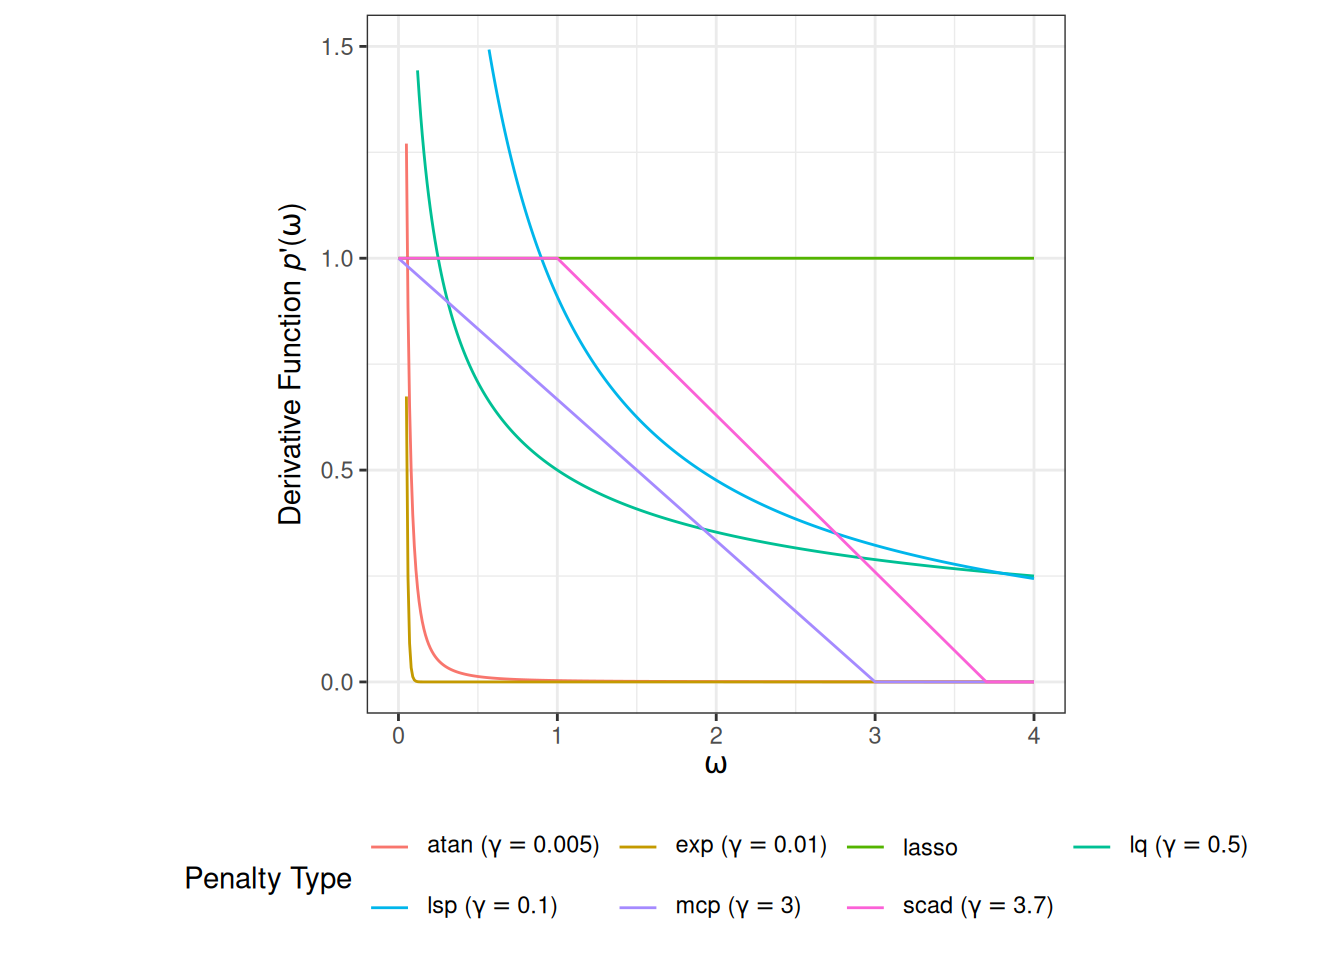
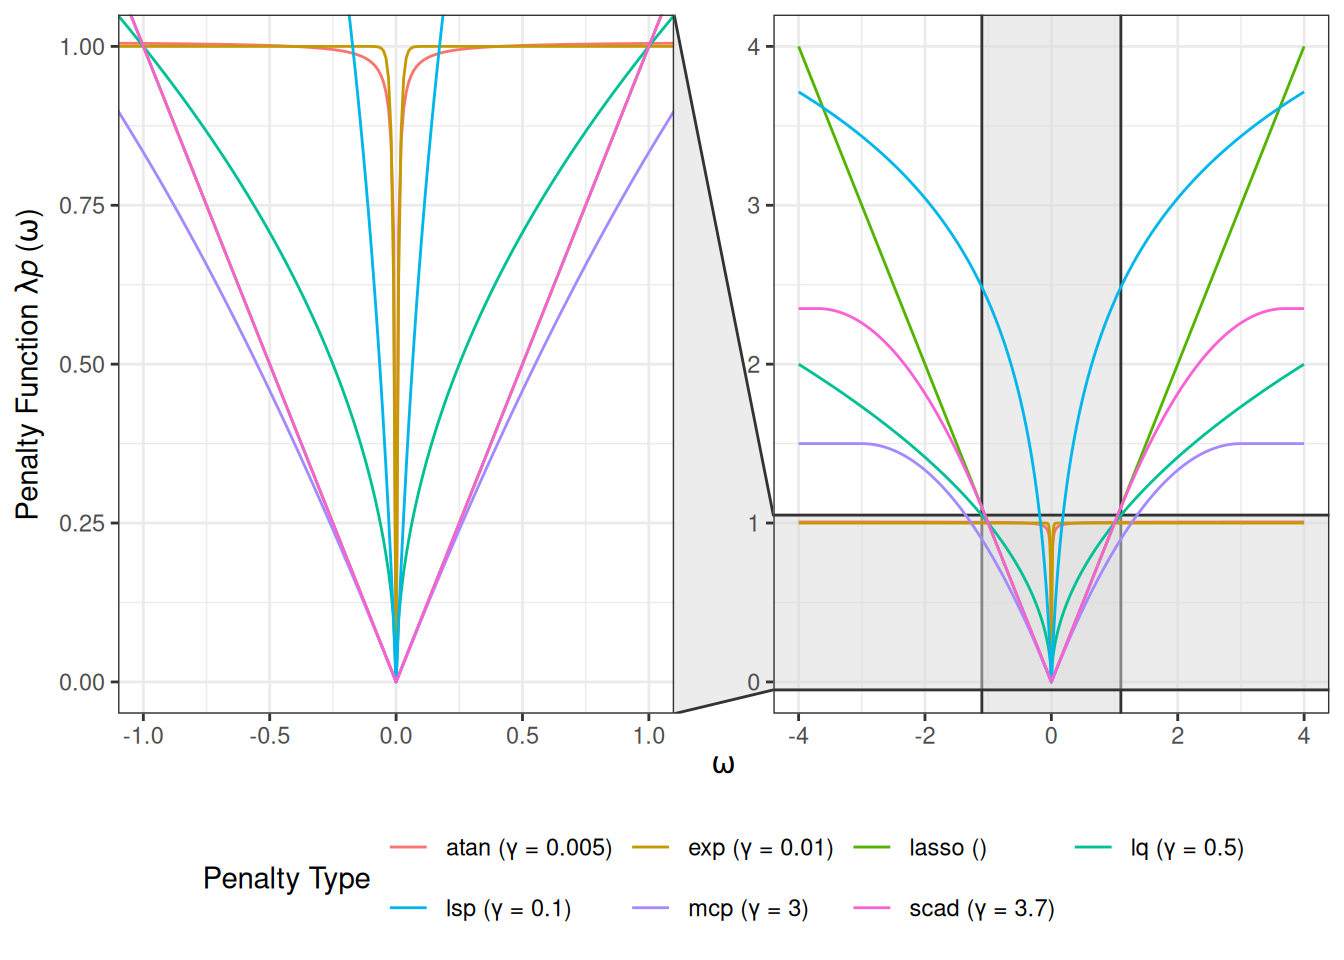
Deploying to gh-pages from @ Carol-seven/grasps@d884253fb03db5fde3b4145dbb8eb99e369c6571 🚀

diff --git a/articles/pen_est.html b/articles/pen_est.html
@@ -222,8 +222,6 @@ P^\text{grp}_\gamma(\Omega)
 <section class="level2"><h2 id="illustrative-visualization">Illustrative Visualization<a class="anchor" aria-label="anchor" href="#illustrative-visualization"></a>
 </h2>
 <p><a href="#fig-pen" class="quarto-xref">Figure 1</a> illustrates a comparison of various penalty functions <math display="inline" xmlns="http://www.w3.org/1998/Math/MathML"><semantics><mrow><mi>λ</mi><mi>p</mi><mrow><mo stretchy="true" form="prefix">(</mo><mi>ω</mi><mo stretchy="true" form="postfix">)</mo></mrow></mrow><annotation encoding="application/x-tex">\lambda p(\omega)</annotation></semantics></math> evaluated over a range of <math display="inline" xmlns="http://www.w3.org/1998/Math/MathML"><semantics><mi>ω</mi><annotation encoding="application/x-tex">\omega</annotation></semantics></math> values. The main panel (right) provides a wider view of the penalty functions’ behavior for larger <math display="inline" xmlns="http://www.w3.org/1998/Math/MathML"><semantics><mrow><mo stretchy="false" form="postfix">|</mo><mi>ω</mi><mo stretchy="false" form="postfix">|</mo></mrow><annotation encoding="application/x-tex">\vert\omega\vert</annotation></semantics></math>, while the inset panel (left) magnifies the region near zero <math display="inline" xmlns="http://www.w3.org/1998/Math/MathML"><semantics><mrow><mo stretchy="true" form="prefix">[</mo><mi>−</mi><mn>1</mn><mo>,</mo><mn>1</mn><mo stretchy="true" form="postfix">]</mo></mrow><annotation encoding="application/x-tex">[-1, 1]</annotation></semantics></math>.</p>
-<div id="fig-pen" class="quarto-float quarto-figure quarto-figure-center">
-<figure class="quarto-float quarto-float-fig"><div aria-describedby="fig-pen-caption-0ceaefa1-69ba-4598-a22c-09a6ac19f8ca">
 <div class="cell" data-layout-align="center">
 <div class="sourceCode cell-code" id="cb1"><pre class="downlit sourceCode r">
 <code class="sourceCode R"><span><span class="kw"><a href="https://rdrr.io/r/base/library.html" class="external-link">library</a></span><span class="op">(</span><span class="va"><a href="https://github.com/Carol-seven/grasps" class="external-link">grasps</a></span><span class="op">)</span> <span class="co">## for penalty computation</span></span>
@@ -235,16 +233,20 @@ P^\text{grp}_\gamma(\Omega)
 <span><span class="va">df</span> <span class="op">&lt;-</span> <span class="fu">grasps</span><span class="fu">::</span><span class="fu"><a href="../reference/pen.html">pen</a></span><span class="op">(</span><span class="va">omegas</span>, <span class="va">penalties</span>, lambda <span class="op">=</span> <span class="fl">1</span><span class="op">)</span></span>
 <span><span class="fu"><a href="https://rdrr.io/r/graphics/plot.default.html" class="external-link">plot</a></span><span class="op">(</span><span class="va">df</span>, xlim <span class="op">=</span> <span class="fu"><a href="https://rdrr.io/r/base/c.html" class="external-link">c</a></span><span class="op">(</span><span class="op">-</span><span class="fl">1</span>, <span class="fl">1</span><span class="op">)</span>, ylim <span class="op">=</span> <span class="fu"><a href="https://rdrr.io/r/base/c.html" class="external-link">c</a></span><span class="op">(</span><span class="fl">0</span>, <span class="fl">1</span><span class="op">)</span>, zoom.size <span class="op">=</span> <span class="fl">1</span><span class="op">)</span> <span class="op">+</span></span>
 <span>  <span class="fu"><a href="https://ggplot2.tidyverse.org/reference/guides.html" class="external-link">guides</a></span><span class="op">(</span>color <span class="op">=</span> <span class="fu"><a href="https://ggplot2.tidyverse.org/reference/guide_legend.html" class="external-link">guide_legend</a></span><span class="op">(</span>nrow <span class="op">=</span> <span class="fl">2</span>, byrow <span class="op">=</span> <span class="cn">TRUE</span><span class="op">)</span><span class="op">)</span></span></code></pre></div>
+</div>
+<div id="fig-pen" class="quarto-float quarto-figure quarto-figure-center">
+<figure class="quarto-float quarto-float-fig"><div aria-describedby="fig-pen-caption-0ceaefa1-69ba-4598-a22c-09a6ac19f8ca">
+<div class="cell" data-layout-align="center">
 <div class="cell-output-display">
 <div class="quarto-figure quarto-figure-center">
-<figure><p><img src="pen_est_files/figure-html/pen-1.png" width="672"></p>
-<figcaption>Figure 1: Illustrative penalty functions.</figcaption></figure>
+<figure><p><img src="pen_est_files/figure-html/unnamed-chunk-3-1.png" class="quarto-figure quarto-figure-center" width="672"></p>
+</figure>
 </div>
 </div>
 </div>
 </div>
-<figcaption class="quarto-float-caption-bottom quarto-float-caption quarto-float-fig quarto-uncaptioned" id="fig-pen-caption-0ceaefa1-69ba-4598-a22c-09a6ac19f8ca">
-Figure 1
+<figcaption class="quarto-float-caption-bottom quarto-float-caption quarto-float-fig" id="fig-pen-caption-0ceaefa1-69ba-4598-a22c-09a6ac19f8ca">
+Figure 1: Illustrative penalty functions.
 </figcaption></figure>
 </div>
 <p><a href="#fig-deriv" class="quarto-xref">Figure 2</a> displays the derivative function <math display="inline" xmlns="http://www.w3.org/1998/Math/MathML"><semantics><mrow><msup><mi>p</mi><mi>′</mi></msup><mrow><mo stretchy="true" form="prefix">(</mo><mi>ω</mi><mo stretchy="true" form="postfix">)</mo></mrow></mrow><annotation encoding="application/x-tex">p^\prime(\omega)</annotation></semantics></math> associated with a range of penalty types. The Lasso exhibits a constant derivative, corresponding to uniform shrinkage. For MCP and SCAD, the derivatives are piecewise: initially equal to the Lasso derivative, then decreasing over an intermediate region, and eventually dropping to zero, indicating that large <math display="inline" xmlns="http://www.w3.org/1998/Math/MathML"><semantics><mrow><mo stretchy="false" form="postfix">|</mo><mi>ω</mi><mo stretchy="false" form="postfix">|</mo></mrow><annotation encoding="application/x-tex">\vert\omega\vert</annotation></semantics></math> receive no shrinkage. Other non-convex penalties show smoothly diminishing derivatives as <math display="inline" xmlns="http://www.w3.org/1998/Math/MathML"><semantics><mrow><mo stretchy="false" form="postfix">|</mo><mi>ω</mi><mo stretchy="false" form="postfix">|</mo></mrow><annotation encoding="application/x-tex">\vert\omega\vert</annotation></semantics></math> increases, reflecting their tendency to shrink small <math display="inline" xmlns="http://www.w3.org/1998/Math/MathML"><semantics><mrow><mo stretchy="false" form="postfix">|</mo><mi>ω</mi><mo stretchy="false" form="postfix">|</mo></mrow><annotation encoding="application/x-tex">\vert\omega\vert</annotation></semantics></math> strongly while exerting little to no shrinkage on large ones.</p>
@@ -273,15 +275,10 @@ Figure 1
 <span>        legend.position <span class="op">=</span> <span class="st">"bottom"</span><span class="op">)</span></span></code></pre></div>
 <div class="cell-output-display">
 <div class="quarto-figure quarto-figure-center">
-<figure><p><img src="pen_est_files/figure-html/unnamed-chunk-1-1.png" width="672"></p>
+<figure><p><img src="pen_est_files/figure-html/unnamed-chunk-4-1.png" width="672"></p>
 <figcaption>Figure 2: Illustrative penalty derivatives.</figcaption></figure>
 </div>
 </div>
-<div class="sourceCode cell-code" id="cb3"><pre class="downlit sourceCode r">
-<code class="sourceCode R"><span></span>
-<span><span class="co"># pen_plot + deriv_plot +</span></span>
-<span><span class="co">#   plot_layout(widths = c(2.2,1), guides = "collect") &amp;</span></span>
-<span><span class="co">#   theme(legend.position = "bottom")</span></span></code></pre></div>
 </div>
 </div>
 <figcaption class="quarto-float-caption-bottom quarto-float-caption quarto-float-fig quarto-uncaptioned" id="fig-deriv-caption-0ceaefa1-69ba-4598-a22c-09a6ac19f8ca">

diff --git a/extra.css b/extra.css
@@ -7,10 +7,6 @@ body {
   justify-content: center;
 }
 
-.caption{
-   text-align: center;
-}
-
 .container {
   max-width: 85%;
 }
@@ -28,4 +24,9 @@ body {
   border-left: solid 4px #F43F5E;
   padding: 10px;
   margin-bottom: 20px;
+}
+
+.quarto-figure figcaption {
+  margin: auto;
+  text-align: center;
 }

diff --git a/articles/pen_est.md b/articles/pen_est.md
@@ -149,11 +149,9 @@ plot(df, xlim = c(-1, 1), ylim = c(0, 1), zoom.size = 1) +
   guides(color = guide_legend(nrow = 2, byrow = TRUE))
 ```
 
-![](pen_est_files/figure-html/pen-1.png)
+![](pen_est_files/figure-html/unnamed-chunk-3-1.png)
 
-Figure 1: Illustrative penalty functions.
-
-Figure 1
+Figure 1: Illustrative penalty functions.
 
 [Figure 2](#fig-deriv) displays the derivative function
 $p^{\prime}(\omega)$ associated with a range of penalty types. The Lasso
@@ -188,16 +186,9 @@ ggplot(df, aes(x = omega, y = value, color = penalty)) +
         legend.position = "bottom")
 ```
 
-![](pen_est_files/figure-html/unnamed-chunk-1-1.png)
+![](pen_est_files/figure-html/unnamed-chunk-4-1.png)
 
 Figure 2: Illustrative penalty derivatives.
-
-``` r
-
-# pen_plot + deriv_plot +
-#   plot_layout(widths = c(2.2,1), guides = "collect") &
-#   theme(legend.position = "bottom")
-```
 
 Figure 2
 
